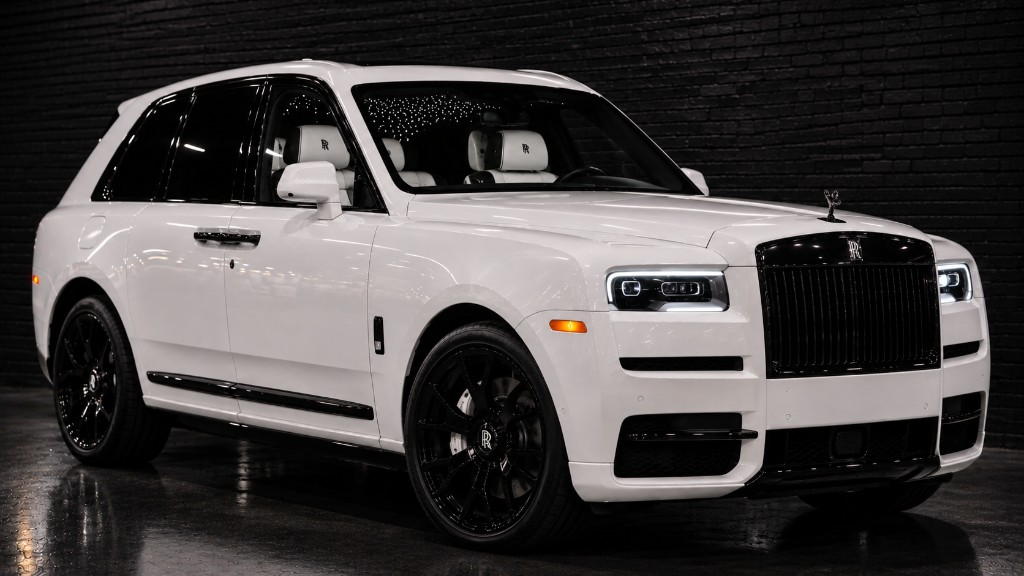
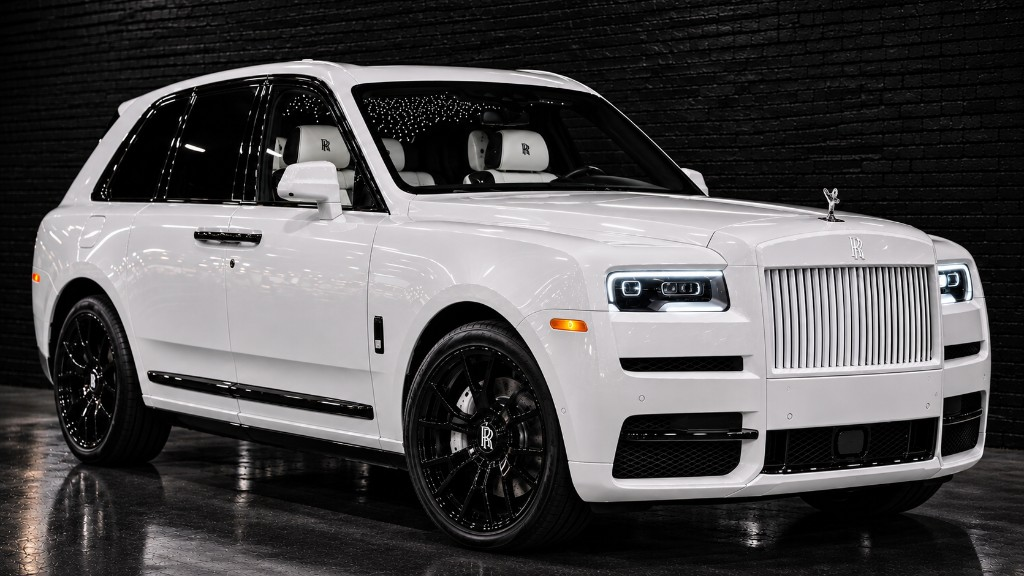
Update rentals fleet photo and driver requirements.
Replace the white Cullinan Black Badge hero image and state 21+ self-drive requirements with valid license and insurance in CT, MA, or NY on the fleet, quote, and FAQ sections.

diff --git a/src/pages/CarRentalsPage.jsx b/src/pages/CarRentalsPage.jsx
@@ -16,6 +16,8 @@ import JobberFormEmbed, {
 } from '../components/JobberFormEmbed';
 import { RENTAL_FLEET, RENTAL_FLEET_META } from '../data/rentalFleet';
 
+const { renterRequirements } = RENTAL_FLEET_META;
+
 const PATH = '/luxury-car-rentals-ct-ny-ma';
 const PAGE_TITLE =
   'Luxury & Exotic Car Rentals in CT, NY & MA | NAS Exotics | NAS Auto Spa';
@@ -57,6 +59,10 @@ const FAQS = [
   {
     q: 'How far in advance should I reserve?',
     a: 'As early as possible for weekends, holidays, and weddings. Same-week requests are sometimes available depending on the fleet. Submit the form and we will confirm what we can deliver for your date.',
+  },
+  {
+    q: 'What are the driver requirements for a NAS Exotics rental?',
+    a: `${RENTAL_FLEET_META.renterRequirements} Chauffeur service is available if you prefer not to self-drive.`,
   },
 ];
 
@@ -276,9 +282,15 @@ const CarRentalsPage = () => {
                 >
                   Request availability
                 </h2>
-                <p className="text-sm md:text-base text-zinc-400 leading-relaxed mb-6">
+                <p className="text-sm md:text-base text-zinc-400 leading-relaxed mb-4">
                   Share dates, pickup city, and the car you want. Pricing is never listed
                   here — you get a quote after we confirm the fleet.
+                </p>
+                <p className="text-sm text-zinc-300 leading-relaxed mb-6 rounded-xl border border-white/[0.08] bg-zinc-950/60 px-4 py-3">
+                  <span className="text-[#e1b11b] font-semibold uppercase tracking-[0.14em] text-[10px] block mb-1.5">
+                    Driver requirements
+                  </span>
+                  {renterRequirements}
                 </p>
                 <a
                   href="tel:+19293076986"

diff --git a/src/components/CarInventory.jsx b/src/components/CarInventory.jsx
@@ -96,6 +96,9 @@ const CarInventory = ({
               Colors and specs listed. Chauffeur {RENTAL_FLEET_META.chauffeur.toLowerCase()}.
               Pricing is quoted privately.
             </p>
+            <p className="mt-3 text-sm text-zinc-500 leading-relaxed border-l-2 border-[#e1b11b]/50 pl-3">
+              {RENTAL_FLEET_META.renterRequirements}
+            </p>
           </div>
         </div>
       )}

diff --git a/src/data/rentalFleet.js b/src/data/rentalFleet.js
@@ -4,6 +4,8 @@ export const RENTAL_FLEET_META = {
   chauffeur: 'Available on request',
   depositNote:
     'Availability and booking details are confirmed after you submit a rental request.',
+  renterRequirements:
+    'Self-drive renters must be at least 21 years old with a valid driver’s license and active auto insurance in Connecticut, Massachusetts, or New York.',
 };
 
 export const RENTAL_FLEET = [
